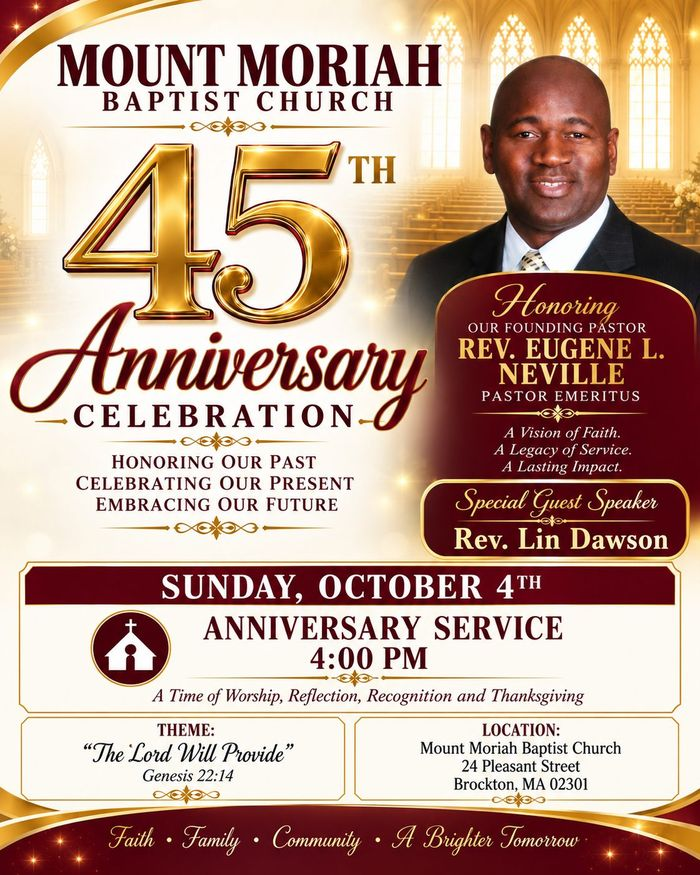
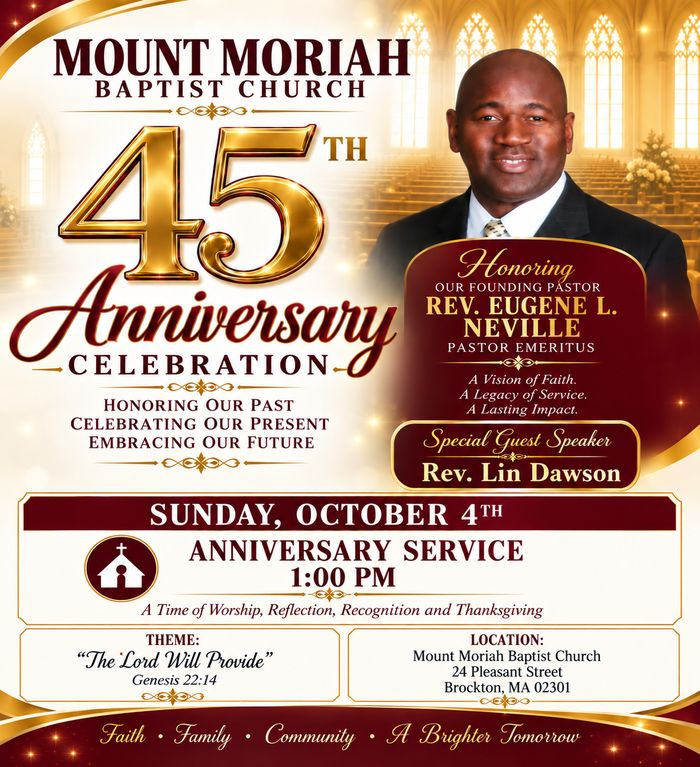
Update Sunday celebration time from 4:00 PM to 1:00 PM
Revised anniversary flyer moved the Sunday service to 1:00 PM. Replaced
the flyer image (new aspect ratio, so declared dimensions updated to
avoid layout shift) and updated every dependent reference:

- Sunday schedule card, celebration details, "Sunday only" registration
  option, and the ticket card copy
- "evening" wording throughout — Rev. Dawson now preaches morning and
  afternoon, and Rev. Neville's recognition is a Sunday afternoon event
- Volunteer shifts: setup is now "before 1:00 PM" rather than "between
  services", and close-out is afternoon rather than evening

Saturday's 4:00 PM references (Family Fun Day end time and the park
cleanup shift) are deliberately unchanged.

Documented the knock-on effects the committee still has to resolve, none
of which were discussed in the meeting because it predates the change:
the Sunday setup window is now tight or nonexistent after morning
worship, the meal becomes lunch rather than dinner, and the Saturday
cleanup and Sunday setup crews may overlap. Added as MEETING-NOTES §12
and action items 4a, 26a-26c.

Claude-Session: https://claude.ai/code/session_01Crc44jfuuWPXAmCbc9WxeC

diff --git a/index.html b/index.html
@@ -132,9 +132,9 @@
       <li class="day-card day-card--feature">
         <p class="day-date"><span class="day-dow">Sunday</span> October 4</p>
         <h3>Anniversary Celebration</h3>
-        <p class="day-time">Morning Worship &middot; Celebration at 4:00 PM</p>
+        <p class="day-time">Morning Worship &middot; Celebration at 1:00 PM</p>
         <p class="day-where">Mount Moriah Baptist Church &middot; 24 Pleasant St</p>
-        <p class="day-body">Rev. Lin Dawson preaches morning and evening. At four o&rsquo;clock we honor Rev. Eugene L. Neville as our founding pastor.</p>
+        <p class="day-body">Rev. Lin Dawson preaches morning and afternoon. At one o&rsquo;clock we honor Rev. Eugene L. Neville as our founding pastor.</p>
         <a class="link-arrow" href="#celebration">Full details</a>
       </li>
 
@@ -180,7 +180,7 @@
     <div class="split-media">
       <a href="assets/flyers/anniversary-service.jpg" class="flyer-link" data-lightbox
          aria-label="Open the full-size Anniversary Celebration flyer">
-        <img src="assets/flyers/anniversary-service-thumb.jpg" alt="45th Anniversary Celebration flyer honoring founding pastor Rev. Eugene L. Neville, Pastor Emeritus, with special guest speaker Rev. Lin Dawson. Sunday, October 4th, anniversary service at 4:00 PM." width="700" height="875" loading="lazy" decoding="async">
+        <img src="assets/flyers/anniversary-service-thumb.jpg" alt="45th Anniversary Celebration flyer honoring founding pastor Rev. Eugene L. Neville, Pastor Emeritus, with special guest speaker Rev. Lin Dawson. Sunday, October 4th, anniversary service at 1:00 PM." width="700" height="767" loading="lazy" decoding="async">
         <span class="flyer-zoom" aria-hidden="true">View flyer</span>
       </a>
     </div>
@@ -192,7 +192,7 @@
 
       <dl class="detail-list">
         <div><dt>Morning Worship</dt><dd>Rev. Lin Dawson preaching<br><span class="muted tbd">Service time to be announced</span></dd></div>
-        <div><dt>Celebration</dt><dd>4:00 PM &middot; downstairs auditorium</dd></div>
+        <div><dt>Celebration</dt><dd>1:00 PM &middot; downstairs auditorium</dd></div>
         <div><dt>Where</dt><dd>Mount Moriah Baptist Church<br>24 Pleasant Street, Brockton, MA 02301</dd></div>
       </dl>
 
@@ -202,14 +202,14 @@
           <h3>Rev. Eugene L. Neville</h3>
           <p class="honor-title">Pastor Emeritus</p>
           <p class="honor-quote">A Vision of Faith. A Legacy of Service. A Lasting Impact.</p>
-          <p class="honor-body">Forty-five years ago Rev. Neville founded this church. On Sunday evening he is recognized officially as our founding pastor.</p>
+          <p class="honor-body">Forty-five years ago Rev. Neville founded this church. On Sunday afternoon he is recognized officially as our founding pastor.</p>
         </article>
 
         <article class="honor-card">
           <p class="honor-role">Special guest speaker</p>
           <h3>Rev. Lin Dawson</h3>
           <p class="honor-title">Coming home to preach</p>
-          <p class="honor-body">Rev. Dawson brings the word both Sunday morning and Sunday evening.</p>
+          <p class="honor-body">Rev. Dawson brings the word both Sunday morning and Sunday afternoon.</p>
         </article>
       </div>
 
@@ -341,7 +341,7 @@
             <input type="radio" name="attending" value="Sunday only">
             <span class="choice-body">
               <span class="choice-title">Sunday only</span>
-              <span class="choice-sub">The Anniversary Celebration at 4:00 PM</span>
+              <span class="choice-sub">The Anniversary Celebration at 1:00 PM</span>
             </span>
           </label>
 
@@ -416,8 +416,8 @@
           <label class="check check--sub"><input type="checkbox" name="shifts" value="Friday evening — decorating & prep"><span><strong>Friday evening</strong> &mdash; decorating, ironing and prep</span></label>
           <label class="check check--sub"><input type="checkbox" name="shifts" value="Saturday 10 AM — park setup"><span><strong>Saturday, 10:00 AM</strong> &mdash; park setup, games and equipment</span></label>
           <label class="check check--sub"><input type="checkbox" name="shifts" value="Saturday 4 PM — park cleanup"><span><strong>Saturday, 4:00 PM</strong> &mdash; park cleanup, about an hour</span></label>
-          <label class="check check--sub"><input type="checkbox" name="shifts" value="Sunday midday — celebration setup"><span><strong>Sunday, midday</strong> &mdash; setting up the auditorium between services</span></label>
-          <label class="check check--sub"><input type="checkbox" name="shifts" value="Sunday evening — close-out"><span><strong>Sunday evening</strong> &mdash; close-out and breakdown</span></label>
+          <label class="check check--sub"><input type="checkbox" name="shifts" value="Sunday before 1:00 PM — celebration setup"><span><strong>Sunday, before 1:00 PM</strong> &mdash; setting up the auditorium</span></label>
+          <label class="check check--sub"><input type="checkbox" name="shifts" value="Sunday afternoon — close-out"><span><strong>Sunday afternoon</strong> &mdash; close-out and breakdown</span></label>
           <label class="check check--sub"><input type="checkbox" name="shifts" value="Wherever needed"><span><strong>Wherever you need me</strong></span></label>
         </div>
       </fieldset>
@@ -489,14 +489,14 @@
         </div>
       </li>
       <li class="shift">
-        <span class="shift-when"><span class="shift-day">Sunday</span><span class="shift-time">Midday</span></span>
+        <span class="shift-when"><span class="shift-day">Sunday</span><span class="shift-time">Before 1:00 PM</span></span>
         <div class="shift-body">
           <h3>Celebration setup</h3>
-          <p>Between morning worship and the four o&rsquo;clock celebration, we turn the auditorium around.</p>
+          <p>Turning the auditorium around ahead of the one o&rsquo;clock celebration. It&rsquo;s a tight window after morning worship, so we need plenty of hands.</p>
         </div>
       </li>
       <li class="shift">
-        <span class="shift-when"><span class="shift-day">Sunday</span><span class="shift-time">Evening</span></span>
+        <span class="shift-when"><span class="shift-day">Sunday</span><span class="shift-time">Afternoon</span></span>
         <div class="shift-body">
           <h3>Close-out</h3>
           <p>Breaking down after the celebration. Last shift of the weekend, and the most appreciated.</p>

diff --git a/app.js b/app.js
@@ -128,7 +128,7 @@
         rows: known(u.adult)
           ? row("Adults", u.adult) + (known(u.youth) ? row("Under 18", u.youth) : "")
           : '<li><span>Ticket price</span><span class="ticket-price ticket-price--tbd">To be announced</span></li>',
-        note: "The four o’clock celebration and meal downstairs, honoring Rev. Eugene L. Neville."
+        note: "The one o’clock celebration and meal downstairs, honoring Rev. Eugene L. Neville."
       },
       {
         title: "Weekend Passport",

diff --git a/docs/MEETING-NOTES.md b/docs/MEETING-NOTES.md
@@ -18,11 +18,12 @@
 - **Theme:** "The Lord Will Provide" — Genesis 22:14
 - **Tagline:** Honoring Our Past · Celebrating Our Present · Embracing Our Future
 - **Anniversary span:** 1981 – 2026 (from the t-shirt back)
-- **Honoree:** Rev. Eugene L. Neville, Founding Pastor / Pastor Emeritus. Sunday evening is his
+- **Honoree:** Rev. Eugene L. Neville, Founding Pastor / Pastor Emeritus. Sunday afternoon is his
   official recognition as founding pastor.
 - **Special guest speaker:** **Rev. Lin Dawson** (spelling confirmed live on the call with
   Ms. Gwen: L-I-N D-A-W-S-O-N, and yes, he is a Reverend). He preaches Sunday morning *and*
-  Sunday evening — "coming back home to preach."
+  Sunday afternoon — "coming back home to preach." (The meeting said "evening"; the revised
+  flyer's 1:00 PM time makes it an afternoon service.)
 
 ### Weekend schedule
 
@@ -33,14 +34,18 @@
 | **Sat Oct 3**, 12:00 PM – 4:00 PM | **Family Fun Day** — picnic style. Games, music. Bring your own food, chairs and blankets. | Walker Park, 50 May Ave, Brockton MA 02301 (behind the Raymond School) |
 | **Sat Oct 3**, 4:00 PM | Volunteer cleanup, ~1 hour. Trash bags handed out to attendees; crew consolidates and dumps. | Walker Park |
 | **Sun Oct 4**, morning | Regular morning worship service. Rev. Lin Dawson preaching. | Church sanctuary |
-| **Sun Oct 4**, between services | Volunteer setup for the evening celebration | Church, downstairs auditorium |
-| **Sun Oct 4**, 4:00 PM | **45th Anniversary Celebration** — worship, reflection, recognition and thanksgiving, with a meal. Honorarium for Rev. Neville. | Church, downstairs auditorium, 24 Pleasant St, Brockton MA 02301 |
+| **Sun Oct 4**, before 1:00 PM | Volunteer setup for the celebration | Church, downstairs auditorium |
+| **Sun Oct 4**, 1:00 PM | **45th Anniversary Celebration** — worship, reflection, recognition and thanksgiving, with a meal. Honorarium for Rev. Neville. | Church, downstairs auditorium, 24 Pleasant St, Brockton MA 02301 |
 | **Sun Oct 4**, after | Volunteer close-out / breakdown | Church |
+
+> **Time changed after the meeting.** The Sunday celebration was 4:00 PM in the meeting and on
+> the original flyer. A revised flyer moved it to **1:00 PM**. The 1:00 PM time is what the
+> site now shows. See §12 for what this knocks over.
 
 **[NEEDS CONFIRMATION]** Friday night start time. Never stated.
 **[NEEDS CONFIRMATION]** Sunday morning service start time. Never stated.
-**[NEEDS CONFIRMATION]** Sunday evening close-out — the group explicitly said "we haven't
-figured that out yet."
+**[NEEDS CONFIRMATION]** Sunday close-out after the celebration — the group explicitly said
+"we haven't figured that out yet."
 **[NEEDS CONFIRMATION]** Walker Park entrance. Someone said "the entrance is at Oak Street,
 we'll figure that part out" and then decided attendees don't need that detail. The flyer says
 50 May Ave. Decide which address to publish so people aren't sent to the wrong gate.
@@ -81,7 +86,7 @@ whoever runs the music ministry.
 **Sunday — Anniversary Celebration only**
 
 **[NEEDS CONFIRMATION] — this price does not exist anywhere yet.** The meeting confirmed
-there *is* a cost for the Sunday 4:00 PM event and that it's one of three purchase choices,
+there *is* a cost for the Sunday 1:00 PM event and that it's one of three purchase choices,
 but the number was never said out loud and it is not printed on either flyer. The site
 currently shows it as "price to be announced." **This is the single biggest blocker to opening
 registration.** Do not let me guess at it by backing it out of the passport price.
@@ -172,7 +177,7 @@ Shifts identified:
 | Decorations & prep (ironing tablecloths, chair covers, downstairs labor) | Friday Oct 2, evening |
 | Park setup — games and equipment | Saturday Oct 3, 10:00 AM |
 | Park cleanup | Saturday Oct 3, 4:00 PM (~1 hour) |
-| Celebration setup — auditorium | Sunday Oct 4, between morning and evening |
+| Celebration setup — auditorium | Sunday Oct 4, before 1:00 PM |
 | Close-out / breakdown | Sunday Oct 4, after the celebration |
 
 One live sign-up already happened in the room: **Sarah volunteered for Friday night ironing**
@@ -215,7 +220,7 @@ a QR pointing at a URL you're going to change is a wasted print run.
 - **Sunday (tomorrow):** Shayna announces from the front. Key beats agreed:
   - The committee stage is over — the weekend is already planned. "Get your pockets ready."
   - Saturday Oct 3, picnic-style family reunion, noon, Walker Park.
-  - Sunday Oct 4, 4:00 PM, downstairs — Rev. Lin Dawson, honoring Rev. Neville as founding pastor.
+  - Sunday Oct 4, 1:00 PM, downstairs — Rev. Lin Dawson, honoring Rev. Neville as founding pastor.
   - **Deliberately do NOT read prices aloud.** Direct quote: *"I don't want to mention it
     tomorrow, because it'll get confusing, and people have questions, and we don't have time
     for that. The cost will be on the website."* Prices live on the site only.
@@ -260,3 +265,44 @@ These are real conflicts in the material I was given, not nitpicks:
 4. **"Family reunion" vs "Family Fun Day."** The announcement script says "picnic style family
    reunion"; the flyer says "Family Fun Day." Pick one name and use it everywhere, or people
    will think they're two different things.
+
+---
+
+## 12. Update: Sunday service moved to 1:00 PM
+
+A revised anniversary flyer moved the Sunday service from **4:00 PM to 1:00 PM**. The new flyer
+is in the repo and the site has been updated throughout. Recorded here because the meeting
+transcript and the first flyer both say 4:00, so anyone reading the older notes will be working
+from a stale time.
+
+**Changed on the site:** the flyer image, the Sunday schedule card, the celebration details, the
+"Sunday only" registration option, the ticket card copy, and the volunteer shift times.
+
+### What the earlier time change knocks over
+
+These are consequences of moving to 1:00 PM. None of them were discussed in the meeting, because
+the meeting happened when it was still a 4:00 PM service.
+
+1. **The Sunday setup window is now very tight.** The plan was for volunteers to turn the
+   auditorium around "between morning worship and the evening celebration." With the celebration
+   at 1:00 PM, morning worship may not even be finished long before it starts. **[NEEDS
+   CONFIRMATION]** — either setup moves to Saturday evening or very early Sunday morning, or
+   morning worship needs to end earlier. Somebody has to make this call; the site currently
+   says "Sunday, before 1:00 PM" and notes the window is tight.
+
+2. **"Evening" language is now wrong everywhere.** Rev. Dawson preaches morning and *afternoon*,
+   not morning and evening. Rev. Neville's recognition is a Sunday *afternoon* event. Updated on
+   the site — but check the slideshow, any printed programs, and the announcement script, which
+   still say evening.
+
+3. **Meal timing.** A 1:00 PM start means the meal is lunch, not dinner. Worth confirming with
+   whoever is handling food — quantities and menu for a 1:00 PM sitting are a different problem
+   from a 4:00 PM one.
+
+4. **The gap between Saturday and Sunday shrinks for the cleanup crew.** Saturday cleanup runs
+   from 4:00 PM at Walker Park; Sunday setup now has to be done before 1:00 PM. If it's the same
+   people doing both, that's a real load. Worth checking when assigning shifts.
+
+5. **The year is still missing from the anniversary flyer.** The revised flyer still reads
+   "SUNDAY, OCTOBER 4TH" with no year. Since the flyer was being edited anyway, this was a free
+   opportunity to add it and it wasn't taken. Worth fixing before a large print run.

diff --git a/docs/ACTION-ITEMS.md b/docs/ACTION-ITEMS.md
@@ -17,7 +17,8 @@ of these actually block that. Those are marked **BLOCKER**.
 | 1 | **BLOCKER — Lock the URL.** Either buy the domain or accept the temporary Vercel URL. Nothing else can be printed or scanned until this exists. | Web team | Domain candidates discussed: MMBC.com (likely taken), MMBCBrockton, MtMoriahBrockton. Vercel placeholder is the agreed fallback. |
 | 2 | **BLOCKER — Generate the QR code** once #1 is locked. | Web team | `python3 tools/make-qr.py "https://your-url"` in this repo. Produces print-ready SVG + PNG. |
 | 3 | Deploy the landing page in "save the date" mode — flyers, schedule, and an email-capture form live; registration marked "opens Tuesday." | Web team | The page already supports this; see README §"Launch modes." |
-| 4 | Confirm Ms. Gwen approved the corrected anniversary flyer. | Shayna | It was sent to her mid-meeting and approval hadn't come back yet. |
+| 4 | Confirm Ms. Gwen approved the anniversary flyer — now the **1:00 PM** version. | Shayna | Time changed from 4:00 PM after the meeting. The revised flyer is in the repo and live on the site. |
+| 4a | **Re-check anything already printed or built with the old 4:00 PM time** — the slideshow, any posted flyers, the announcement script. | Shayna | The site is updated; offline material is not. |
 | 5 | Give the announcement from the front. Save-the-date only — **no prices read aloud.** | Shayna | Script beats are in MEETING-NOTES §9. |
 | 6 | Post flyers around the church. | [unassigned] | Near the pastor's office was mentioned. |
 | 7 | Staff the Alexander Room for cash/check sales; log every transaction on the spreadsheet. | Ms. Gwen + [unassigned] | Must be reconciled against online registrations later. |
@@ -52,8 +53,11 @@ of these actually block that. Those are marked **BLOCKER**.
 | 22 | Confirm Friday night start time and Sunday morning service time. | [unassigned] | Both missing from every document. |
 | 23 | Settle the Walker Park entrance question — May Ave vs. Oak Street — and publish one answer. | [unassigned] | |
 | 24 | Pick one name: "Family Fun Day" or "Family Reunion." Use it everywhere. | Shayna | Currently both are in circulation. |
-| 25 | Add the year to the anniversary flyer before any large print run. | Shayna | It currently reads "SUNDAY, OCTOBER 4TH" with no year. |
-| 26 | Plan the Sunday evening close-out crew. | [unassigned] | Explicitly deferred in the meeting. |
+| 25 | Add the year to the anniversary flyer before any large print run. | Shayna | Still reads "SUNDAY, OCTOBER 4TH" with no year, even after the 1:00 PM revision. |
+| 26 | Plan the Sunday close-out crew (after the 1:00 PM celebration). | [unassigned] | Explicitly deferred in the meeting. |
+| 26a | **Resolve the Sunday setup window.** With the celebration at 1:00 PM there may be little or no gap after morning worship to turn the auditorium around. Move setup to Saturday evening / early Sunday, or end morning worship earlier. | Anniversary committee | Consequence of the time change — never discussed, because the meeting predates it. See MEETING-NOTES §12. |
+| 26b | Confirm the meal plan suits a **1:00 PM sitting** (lunch, not dinner). | [unassigned] | Quantities and menu differ from a 4:00 PM event. |
+| 26c | Check the Saturday-cleanup and Sunday-setup crews aren't the same exhausted people. | [unassigned] | Saturday cleanup starts 4:00 PM; Sunday setup must finish before 1:00 PM. |
 | 27 | Define what each volunteer shift actually does, in one line each, so people know what they're signing up for. | [unassigned] | Raised in the meeting: *"You also need to explain what these hands, bodies are doing in terms of function."* |
 | 28 | Set up the reconciliation process between cash/check sales and online registrations. | Ms. Gwen + web team | Two ledgers with no reconciliation plan is how people get double-charged. |
 
